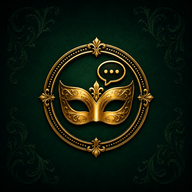
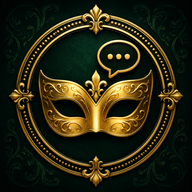
PWAアイコンを差し替え

diff --git a/service-worker.js b/service-worker.js
@@ -1,4 +1,4 @@
-const CACHE_NAME = "kizoku-no-hisomegoto-v1";
+const CACHE_NAME = "kizoku-no-hisomegoto-v2";
 const APP_SHELL = [
   "./",
   "index.html",
